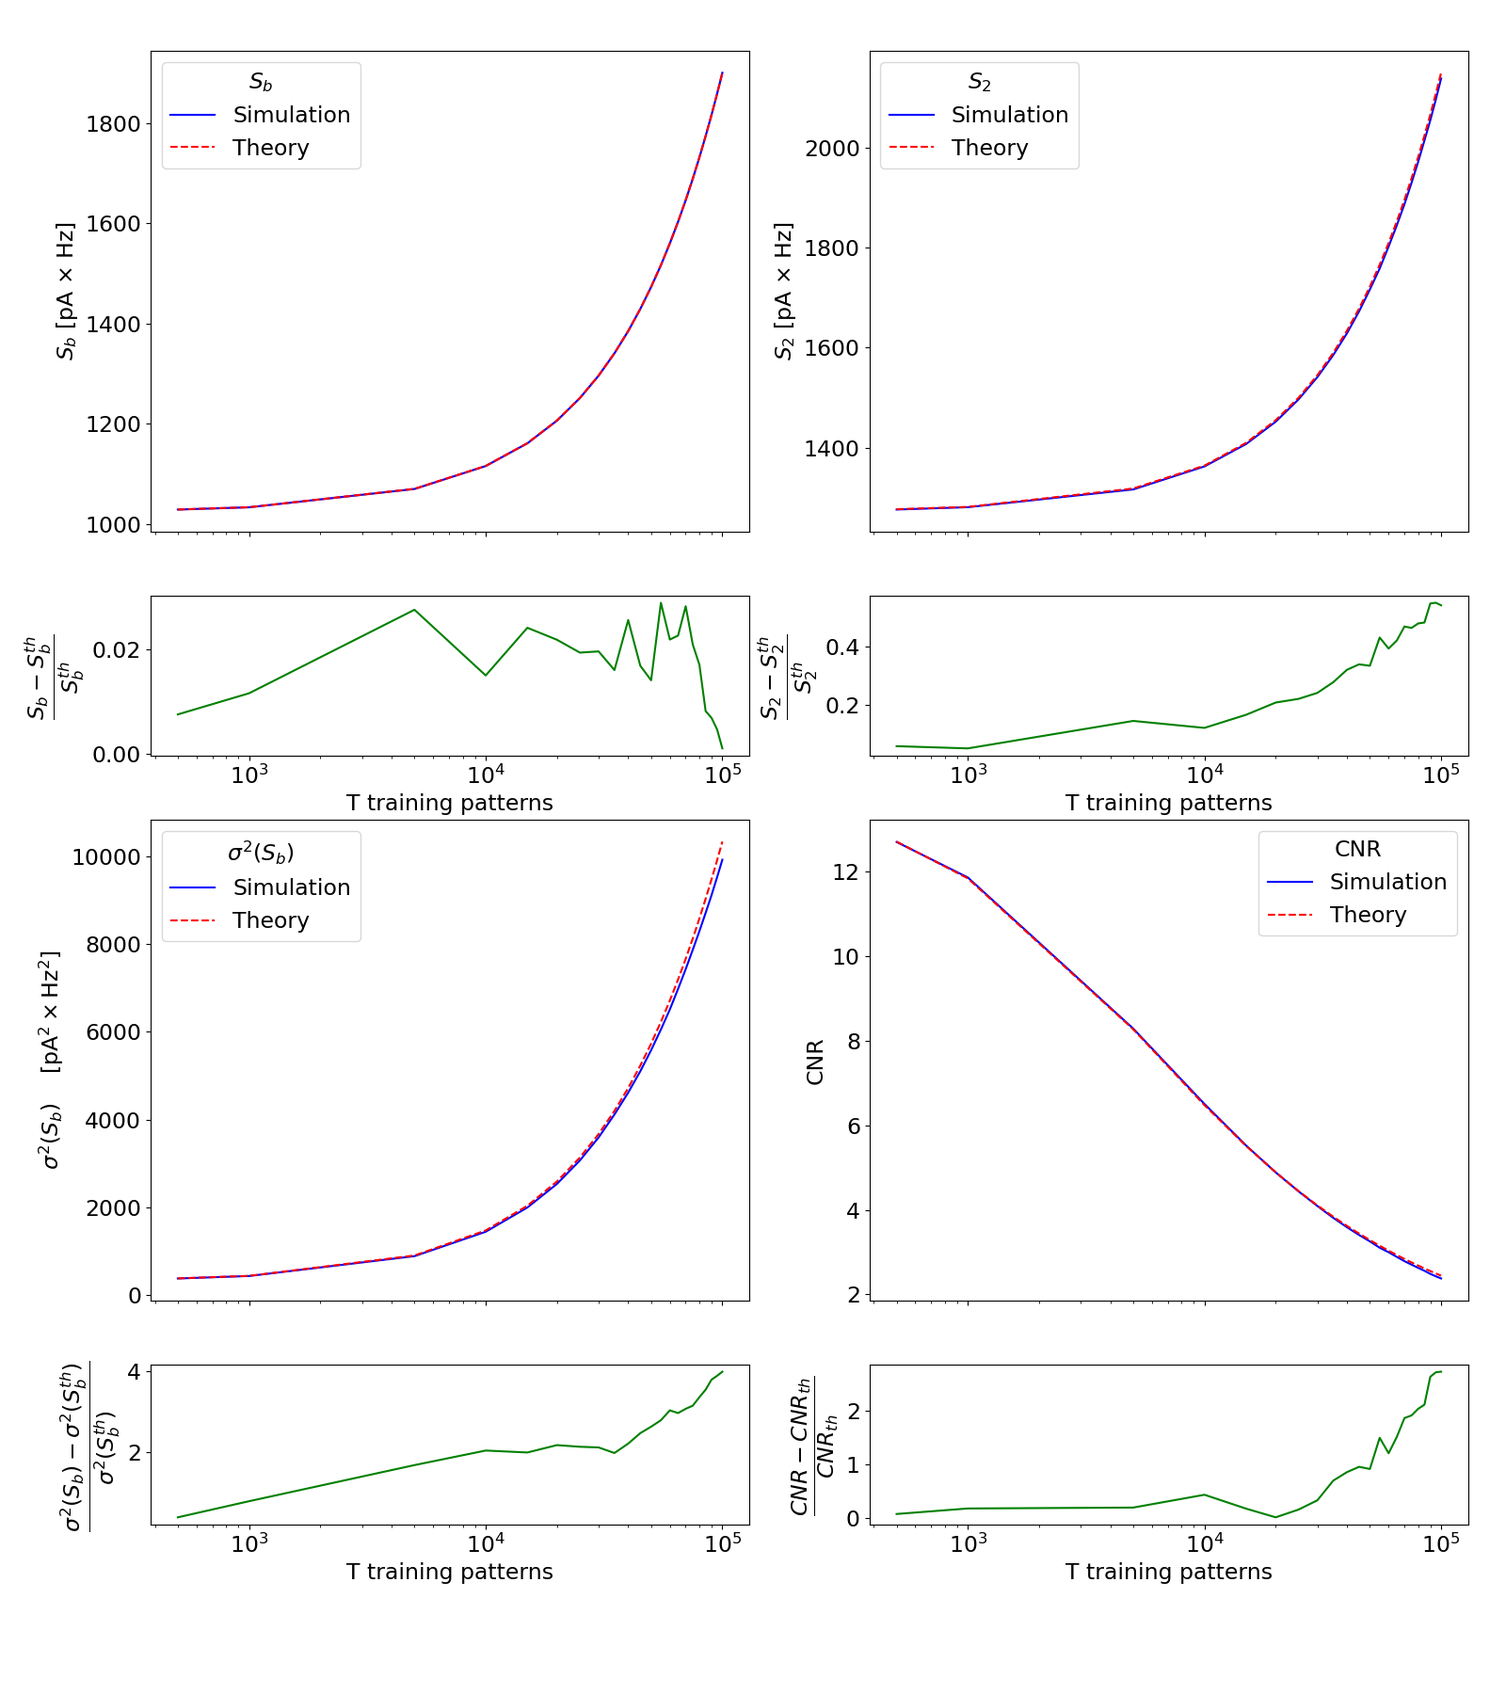
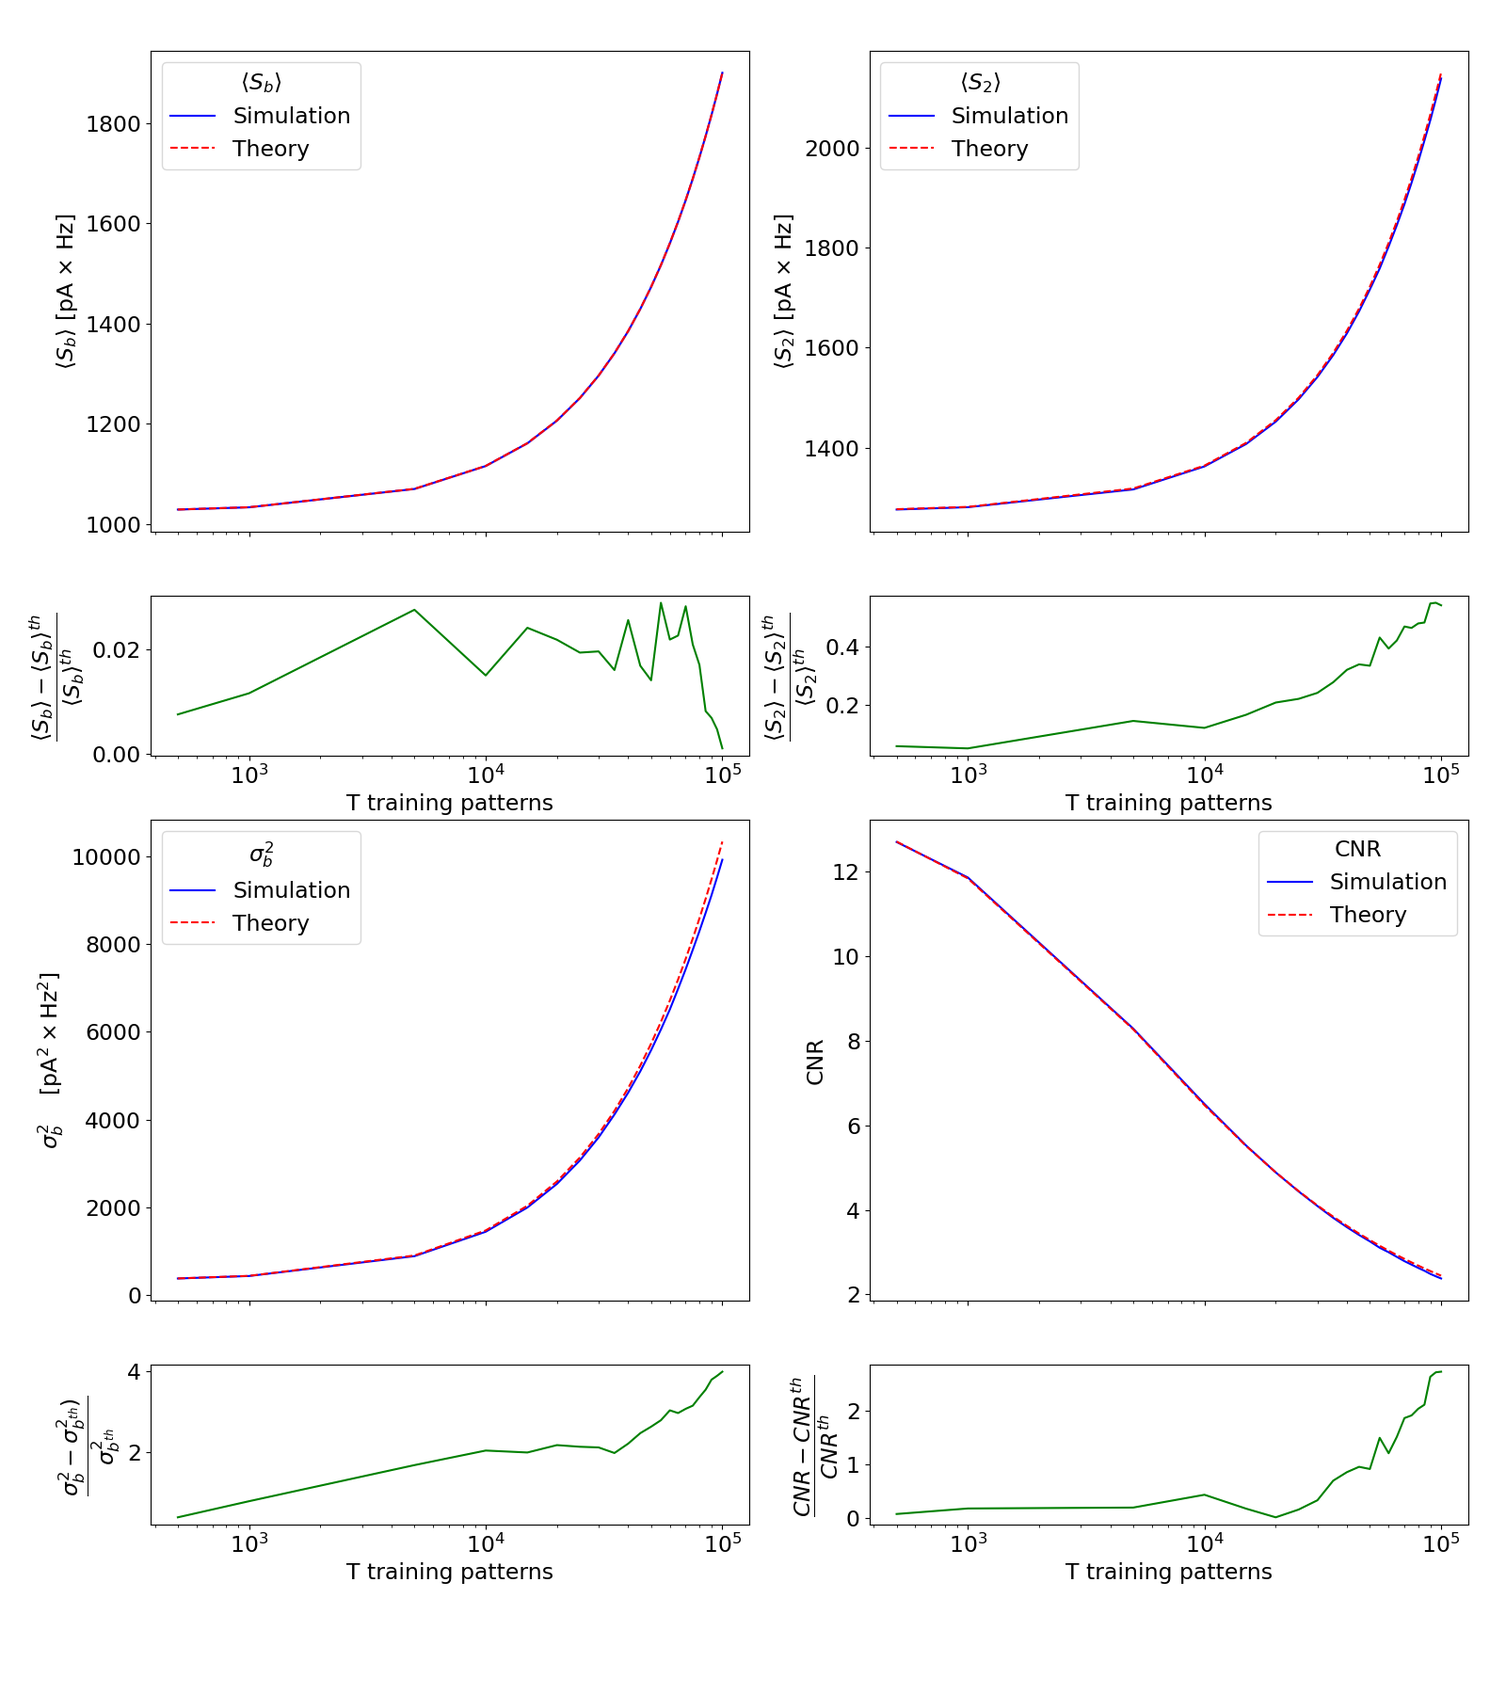
updated plot

diff --git a/plot_residui.py b/plot_residui.py
@@ -337,16 +337,6 @@ def plot_data(discr, th_discr, ln, th_ln, ln_noise, th_ln_noise):
 
 
 
-
-
-
-
-
-
-
-
-
-    
     #################################### PLOT DISCRETE MODEL #################################################
 
     plt.figure(1)
@@ -355,20 +345,20 @@ def plot_data(discr, th_discr, ln, th_ln, ln_noise, th_ln_noise):
     ax1.plot(discr['T'], discr['Sb_av'], "-", color="blue", label="Simulation")
     ax1.plot(discr['T'], th_discr['Sb_th'], "--", color="red", label="Theory")
     #ax1.set_xlabel("T (training patterns)", fontsize=tick_fs)
-    ax1.legend(title=r"$S_b$", fontsize=legend_fs, title_fontsize=legend_fs, framealpha=0.75)
-    ax1.set_ylabel(r"$S_b$ [pA $\times$ Hz]", fontsize=tick_fs)
+    ax1.legend(title=r"$\langle S_b \rangle$", fontsize=legend_fs, title_fontsize=legend_fs, framealpha=0.75)
+    ax1.set_ylabel(r"$\langle S_b \rangle$ [pA $\times$ Hz]", fontsize=tick_fs)
     ax1.tick_params(labelsize=tick_fs)
     ax1.set_xscale('log')
     ax1.set_xticklabels([])
     #ax1.grid()
     
-    #ax1.legend(title=r"$S_b$", fontsize=legend_fs, title_fontsize=legend_fs, framealpha=0.75)
+    #ax1.legend(title=r"$\langle S_b \rangle$", fontsize=legend_fs, title_fontsize=legend_fs, framealpha=0.75)
 
     #ax9.set_title("Residue", fontsize=legend_fs)
     #ax9.fill_between(discr['T'], discr['Sb_av']-discr['Sb_std'], discr['Sb_av']+discr['Sb_std'], color="red", alpha=0.2)
     ax2.plot(discr['T'], abs(discr['Sb_av']-th_discr['Sb_th'])/th_discr['Sb_th']*100, "-", color="green", label="Simulation")
     #ax1.set_xlabel("T (training patterns)", fontsize=tick_fs)
-    ax2.set_ylabel(r"$\dfrac{S_b - S_{b}^{th}}{S_{b}^{th}}$ ", fontsize=tick_fs)
+    ax2.set_ylabel(r"$\dfrac{\langle S_b \rangle - \langle S_{b} \rangle ^{th}}{\langle S_{b} \rangle ^{th}}$ ", fontsize=tick_fs)
     ax2.set_xlabel('T training patterns', fontsize=tick_fs)
     ax2.tick_params(labelsize=tick_fs)
     ax2.set_xscale('log')
@@ -380,21 +370,21 @@ def plot_data(discr, th_discr, ln, th_ln, ln_noise, th_ln_noise):
     #ax3.fill_between(discr['T'], discr['varSb_av']-discr['varSb_std'], discr['varSb_av']+discr['varSb_std'], color="blue", alpha=0.2)
     ax3.plot(discr['T'], discr['varSb_av'], "-", color="blue", label="Simulation")
     ax3.plot(discr['T'], th_discr['varSb_th'], "--", color="red", label="Theory")
-    ax3.legend(title=r"$\sigma^2(S_b)$", fontsize=legend_fs, title_fontsize=legend_fs, framealpha=0.75)
+    ax3.legend(title=r"$\sigma^2_b$", fontsize=legend_fs, title_fontsize=legend_fs, framealpha=0.75)
     #ax3.set_xlabel("T (training patterns)", fontsize=tick_fs)
-    ax3.set_ylabel(r"$\sigma^2(S_b)$ $\quad [\mathrm{pA}^2 \times \mathrm{Hz}^2]$", fontsize=tick_fs)
+    ax3.set_ylabel(r"$\sigma^2_b$ $\quad [\mathrm{pA}^2 \times \mathrm{Hz}^2]$", fontsize=tick_fs)
     ax3.tick_params(labelsize=tick_fs)
     ax3.set_xscale('log')
     #ax3.grid()
     ax3.set_xticklabels([])
     #ax3.legend(fontsize=legend_fs, framealpha=0.75)
 
-    ax3.legend(title=r"$\sigma^2(S_b)$", fontsize=legend_fs, title_fontsize=legend_fs, framealpha=0.75)
+    ax3.legend(title=r"$\sigma^2_b$", fontsize=legend_fs, title_fontsize=legend_fs, framealpha=0.75)
 
 
     ax4.plot(discr['T'], abs(discr['varSb_av']-th_discr['varSb_th'])/th_discr['varSb_th']*100, "-", color="green", label="Simulation")
     #ax1.set_xlabel("T (training patterns)", fontsize=tick_fs)
-    ax4.set_ylabel(r"$\dfrac{\sigma^2(S_b) - \sigma^2(S_{b}^{th})}{\sigma^2(S_{b}^{th})}$ ", fontsize=tick_fs)
+    ax4.set_ylabel(r"$\dfrac{\sigma^2_b - \sigma^2_{b^{th}})}{\sigma^2_{b^{th}}}$ ", fontsize=tick_fs)
     ax4.set_xlabel('T training patterns', fontsize=tick_fs)
     ax4.tick_params(labelsize=tick_fs)
     ax4.set_xscale('log')
@@ -408,20 +398,20 @@ def plot_data(discr, th_discr, ln, th_ln, ln_noise, th_ln_noise):
     #ax5.fill_between(discr['T'], discr['S2_av']-discr['S2_std'], discr['S2_av']+discr['S2_std'], color="blue", alpha=0.2)
     ax5.plot(discr['T'], discr['S2_av'], "-", color="blue", label="Simulation")
     ax5.plot(discr['T'], th_discr['S2_th'], "--", color="red", label="Theory")
-    ax5.legend(title=r"$S_2$", fontsize=legend_fs, title_fontsize=legend_fs, framealpha=0.75)
+    ax5.legend(title=r"$\langle S_2 \rangle$", fontsize=legend_fs, title_fontsize=legend_fs, framealpha=0.75)
     #ax5.set_xlabel("T (training patterns)", fontsize=tick_fs)
-    ax5.set_ylabel(r"$S_2$ [pA $\times$ Hz]", fontsize=tick_fs)
+    ax5.set_ylabel(r"$\langle S_2 \rangle$ [pA $\times$ Hz]", fontsize=tick_fs)
     ax5.tick_params(labelsize=tick_fs)
     ax5.set_xscale('log')
     #ax5.grid()
     #ax5.legend(fontsize=legend_fs, framealpha=0.75)
-    #ax5.legend(title=r"$S_2$", fontsize=legend_fs, title_fontsize=legend_fs, framealpha=0.75)
+    #ax5.legend(title=r"$\langle S_2 \rangle$", fontsize=legend_fs, title_fontsize=legend_fs, framealpha=0.75)
     ax5.set_xticklabels([])
 
 
     ax6.plot(discr['T'], abs(discr['S2_av']-th_discr['S2_th'])/th_discr['S2_th']*100, "-", color="green", label="Simulation")
     #ax1.set_xlabel("T (training patterns)", fontsize=tick_fs)
-    ax6.set_ylabel(r"$\dfrac{S_2 - S_{2}^{th}}{S_{2}^{th}}$ ", fontsize=tick_fs)
+    ax6.set_ylabel(r"$\dfrac{\langle S_2 \rangle - \langle S_{2} \rangle ^{th}}{\langle S_{2} \rangle ^{th}}$ ", fontsize=tick_fs)
     ax6.set_xlabel('T training patterns', fontsize=tick_fs)
     ax6.tick_params(labelsize=tick_fs)
     ax6.set_xscale('log')
@@ -444,7 +434,7 @@ def plot_data(discr, th_discr, ln, th_ln, ln_noise, th_ln_noise):
 
     ax8.plot(discr['T'], abs(np.abs(discr['S2_av']-discr['Sb_av'])/np.sqrt(discr['varSb_av'])- np.abs(th_discr['S2_th']-th_discr['Sb_th'])/np.sqrt(th_discr['varSb_th']))/ (np.abs(th_discr['S2_th']-th_discr['Sb_th'])/np.sqrt(th_discr['varSb_th']))*100, "-", color="green", label="Simulation")
     #ax1.set_xlabel("T (training patterns)", fontsize=tick_fs)
-    ax8.set_ylabel(r"$\dfrac{CNR - CNR_{th}}{CNR_{th}}$ ", fontsize=tick_fs)
+    ax8.set_ylabel(r"$\dfrac{CNR - CNR^{th}}{CNR^{th}}$ ", fontsize=tick_fs)
     ax8.set_xlabel('T training patterns', fontsize=tick_fs)
     ax8.tick_params(labelsize=tick_fs)
     #ax8.set_xticklabels([])
@@ -477,12 +467,12 @@ def plot_data(discr, th_discr, ln, th_ln, ln_noise, th_ln_noise):
     ax9.plot(ln_noise['T'], ln_noise['Sb_av'], "-", color="red", label="Simulation -w/ noise")
     ax9.plot(ln_noise['T'], th_ln_noise['Sb_th'], "--", color="orange", label="Theory - w/ noise")
     #ax9.set_xlabel("T (training patterns)", fontsize=tick_fs)
-    ax9.set_ylabel(r"$S_b$ [pA $\times$ Hz]", fontsize=tick_fs)
+    ax9.set_ylabel(r"$\langle S_b \rangle$ [pA $\times$ Hz]", fontsize=tick_fs)
     ax9.tick_params(labelsize=tick_fs)
     ax9.set_xscale('log')
     ax9.set_xticklabels([])
     #ax9.grid()
-    ax9.legend(title=r"$S_b$", fontsize=legend_fs, title_fontsize=legend_fs, framealpha=0.75)
+    ax9.legend(title=r"$\langle S_b \rangle$", fontsize=legend_fs, title_fontsize=legend_fs, framealpha=0.75)
     #ax9.legend(fontsize=legend_fs, framealpha=0.75)
     
 
@@ -493,7 +483,7 @@ def plot_data(discr, th_discr, ln, th_ln, ln_noise, th_ln_noise):
     #ax9.fill_between(discr['T'], discr['Sb_av']-discr['Sb_std'], discr['Sb_av']+discr['Sb_std'], color="red", alpha=0.2)
     ax10.plot(discr['T'], abs(ln_noise['Sb_av']-th_ln['Sb_th'])/th_ln['Sb_th']*100, "-", color="blue", label="w/out noise")
     ax10.plot(discr['T'], abs(ln_noise['Sb_av']-th_ln_noise['Sb_th'])/th_ln_noise['Sb_th']*100, "--", color="red", label="w/ noise")
-    ax10.set_ylabel(r"$\dfrac{S_b - S_{b}^{th}}{S_{b}^{th}}\quad$[%] ", fontsize=tick_fs)
+    ax10.set_ylabel(r"$\dfrac{\langle S_b \rangle - \langle S_{b} \rangle ^{th}}{\langle S_{b} \rangle ^{th}}\quad$[%] ", fontsize=tick_fs)
     ax10.set_xlabel('T training patterns', fontsize=tick_fs)
     ax10.tick_params(labelsize=tick_fs)
     ax10.set_xscale('log')
@@ -516,7 +506,7 @@ def plot_data(discr, th_discr, ln, th_ln, ln_noise, th_ln_noise):
     ax11.plot(ln_noise['T'], ln_noise['varSb_av'], "-", color="red", label="Simulation - w/ noise")
     ax11.plot(ln_noise['T'], th_ln_noise['varSb_th'], "--", color="orange", label="Theory -w/ noise")
     ax11.set_ylabel(r"$\sigma^2_b$ $\quad [\mathrm{pA}^2 \times \mathrm{Hz}^2]$", fontsize=tick_fs)
-    #ax11.set_ylabel(r"$\sigma^2(S_b)$ $\quad [\mathrm{pA}^2 \times \mathrm{Hz}^2]", fontsize=tick_fs)
+    #ax11.set_ylabel(r"$\sigma^2_b$ $\quad [\mathrm{pA}^2 \times \mathrm{Hz}^2]", fontsize=tick_fs)
     ax11.tick_params(labelsize=tick_fs)
     ax11.set_xscale('log')
     ax11.set_xticklabels([])
@@ -529,7 +519,7 @@ def plot_data(discr, th_discr, ln, th_ln, ln_noise, th_ln_noise):
     ax12.plot(discr['T'], abs(ln['varSb_av']-th_ln['varSb_th'])/th_ln['varSb_th']*100, "-", color="blue", label="w/out noise")
     ax12.plot(discr['T'], abs(ln_noise['varSb_av']-th_ln_noise['varSb_th'])/th_ln_noise['varSb_th']*100, "--", color="red", label="w/ noise")
     #ax1.set_xlabel("T (training patterns)", fontsize=tick_fs)
-    #ax12.set_ylabel(r"$\sigma^2(S_b)$ $\quad [\mathrm{pA}^2 \times \mathrm{Hz}^2]$", fontsize=tick_fs)
+    #ax12.set_ylabel(r"$\sigma^2_b$ $\quad [\mathrm{pA}^2 \times \mathrm{Hz}^2]$", fontsize=tick_fs)
     ax12.set_ylabel(r"$\dfrac{\sigma^2_b - \sigma^2_{b^{th}}}{\sigma^2_{b^{th}}}\quad$[%]", fontsize=tick_fs)
     ax12.set_xlabel('T training patterns', fontsize=tick_fs)
     ax12.tick_params(labelsize=tick_fs)
@@ -550,19 +540,19 @@ def plot_data(discr, th_discr, ln, th_ln, ln_noise, th_ln_noise):
     ax13.plot(ln_noise['T'], th_ln_noise['S2_th'], "--", color="orange", label="Theory - w/ noise")
 
     #ax6.set_xlabel("T (training patterns)", fontsize=tick_fs)
-    ax13.set_ylabel(r"$S_2$ [pA $\times$ Hz]", fontsize=tick_fs)
+    ax13.set_ylabel(r"$\langle S_2 \rangle$ [pA $\times$ Hz]", fontsize=tick_fs)
     ax13.tick_params(labelsize=tick_fs)
     ax13.set_xscale('log')
     ax13.set_xticklabels([])
     #ax13.grid()
-    ax13.legend(title=r" $S_2$", fontsize=legend_fs, title_fontsize=legend_fs, framealpha=0.75)
+    ax13.legend(title=r" $\langle S_2 \rangle$", fontsize=legend_fs, title_fontsize=legend_fs, framealpha=0.75)
 
    # plt.subplots_adjust(hspace=0.1)
     
     ax14.plot(discr['T'], abs(ln['S2_av']-th_ln['S2_th'])/th_ln['S2_th']*100, "-", color="blue", label="w/out noise")
     ax14.plot(discr['T'], abs(ln_noise['S2_av']-th_ln_noise['S2_th'])/th_ln_noise['S2_th']*100, "--", color="red", label="w/ noise")
     #ax1.set_xlabel("T (training patterns)", fontsize=tick_fs)
-    ax14.set_ylabel(r"$\dfrac{S_{2} - S_{2}^{th}}{S_{2}^{th}}\quad$[%]", fontsize=tick_fs)
+    ax14.set_ylabel(r"$\dfrac{\langle S_{2} \rangle - \langle S_{2}\rangle ^{th}}{\langle S_{2}\rangle ^{th}}\quad$[%]", fontsize=tick_fs)
     ax14.set_xlabel('T training patterns', fontsize=tick_fs)
     ax14.tick_params(labelsize=tick_fs)
     ax14.set_xscale('log')
@@ -599,7 +589,7 @@ def plot_data(discr, th_discr, ln, th_ln, ln_noise, th_ln_noise):
     ax16.plot(discr['T'], abs(np.abs(ln_noise['S2_av']-ln_noise['Sb_av'])/np.sqrt(ln_noise['varSb_av'])-np.abs(th_ln_noise['S2_th']-th_ln_noise['Sb_th'])/np.sqrt(th_ln_noise['varSb_th']))/(np.abs(th_ln_noise['S2_th']-th_ln_noise['Sb_th'])/np.sqrt(th_ln_noise['varSb_th']))*100, "--", color="red", label="w/ noise")
     
     #ax1.set_xlabel("T (training patterns)", fontsize=tick_fs)
-    ax16.set_ylabel(r"$\dfrac{CNR - CNR_{th}}{CNR_{th}}\quad$[%] ", fontsize=tick_fs)
+    ax16.set_ylabel(r"$\dfrac{CNR - CNR^{th}}{CNR^{th}}\quad$[%] ", fontsize=tick_fs)
     ax16.set_xlabel('T training patterns', fontsize=tick_fs)
     ax16.tick_params(labelsize=tick_fs)
     ax16.set_xscale('log')

diff --git a/plot.py b/plot.py
@@ -280,11 +280,11 @@ def plot_data(discr, th_discr, ln, th_ln, ln_noise, th_ln_noise):
     ax1.plot(discr['T'], discr['Sb_av'], "-", color="blue", label="Simulation")
     ax1.plot(discr['T'], th_discr['Sb_th'], "--", color="red", label="Theory")
     #ax1.set_xlabel("T training patterns", fontsize=tick_fs)
-    ax1.set_ylabel(r"$S_b$ [pA $\times$ Hz]", fontsize=tick_fs)
+    ax1.set_ylabel(r"$\langle S_b \rangle$ [pA $\times$ Hz]", fontsize=tick_fs)
     ax1.tick_params(labelsize=tick_fs)
     ax1.set_xscale('log')
     ax1.grid()
-    #ax1.legend(title=r"$S_b$", fontsize=legend_fs, title_fontsize=legend_fs, framealpha=1.0)
+    #ax1.legend(title=r"$\langle S_b \rangle$", fontsize=legend_fs, title_fontsize=legend_fs, framealpha=1.0)
 
     ax2.set_title("Continuous rate model", fontsize=legend_fs)
     #ax2.fill_between(ln['T'], ln['Sb_av']-ln['Sb_std'], ln['Sb_av']+ln['Sb_std'], color="blue", alpha=0.2)
@@ -296,11 +296,11 @@ def plot_data(discr, th_discr, ln, th_ln, ln_noise, th_ln_noise):
     ax2.plot(ln_noise['T'], th_ln_noise['Sb_th'], "--", color="orange", label="Theory - noise")
 
     #ax2.set_xlabel("T training patterns", fontsize=tick_fs)
-    ax2.set_ylabel(r"$S_{b}$ [pA $\times$ Hz]", fontsize=tick_fs)
+    ax2.set_ylabel(r"$\langle S_b \rangle$ [pA $\times$ Hz]", fontsize=tick_fs)
     ax2.tick_params(labelsize=tick_fs)
     ax2.set_xscale('log')
     ax2.grid()
-    #ax2.legend(title=r"$S_b$", fontsize=legend_fs, title_fontsize=legend_fs, framealpha=1.0)
+    #ax2.legend(title=r"$\langle S_b \rangle$", fontsize=legend_fs, title_fontsize=legend_fs, framealpha=1.0)
     ax2.legend(fontsize=legend_fs, framealpha=1.0)
 
 
@@ -335,11 +335,11 @@ def plot_data(discr, th_discr, ln, th_ln, ln_noise, th_ln_noise):
     ax5.plot(discr['T'], discr['S2_av'], "-", color="blue", label="Simulation")
     ax5.plot(discr['T'], th_discr['S2_th'], "--", color="red", label="Theory")
     #ax5.set_xlabel("T training patterns", fontsize=tick_fs)
-    ax5.set_ylabel(r"$S_2$ [pA $\times$ Hz]", fontsize=tick_fs)
+    ax5.set_ylabel(r"$\langle S_2 \rangle$ [pA $\times$ Hz]", fontsize=tick_fs)
     ax5.tick_params(labelsize=tick_fs)
     ax5.set_xscale('log')
     ax5.grid()
-    #ax5.legend(title=r"$S_2$", fontsize=legend_fs, title_fontsize=legend_fs, framealpha=1.0)
+    #ax5.legend(title=r"$\langle S_2 \rangle$", fontsize=legend_fs, title_fontsize=legend_fs, framealpha=1.0)
 
 
     #ax6.fill_between(ln['T'], ln['S2_av']-ln['S2_std'], ln['S2_av']+ln['S2_std'], color="blue", alpha=0.2)
@@ -351,11 +351,11 @@ def plot_data(discr, th_discr, ln, th_ln, ln_noise, th_ln_noise):
     ax6.plot(ln_noise['T'], th_ln_noise['S2_th'], "--", color="orange", label="Theory - noise")
 
     #ax6.set_xlabel("T training patterns", fontsize=tick_fs)
-    ax6.set_ylabel(r"$S_2$ [pA $\times$ Hz]", fontsize=tick_fs)
+    ax6.set_ylabel(r"$\langle S_2 \rangle$ [pA $\times$ Hz]", fontsize=tick_fs)
     ax6.tick_params(labelsize=tick_fs)
     ax6.set_xscale('log')
     ax6.grid()
-    #ax6.legend(title=r" $S_2$", fontsize=legend_fs, title_fontsize=legend_fs, framealpha=1.0)
+    #ax6.legend(title=r" $\langle S_2 \rangle$", fontsize=legend_fs, title_fontsize=legend_fs, framealpha=1.0)
 
 
     ax7.plot(discr['T'], np.abs(discr['S2_av']-discr['Sb_av'])/np.sqrt(discr['varSb_av']), "-", color="blue", label="Simulation")
@@ -413,25 +413,25 @@ def plot_data_luca(discr, th_discr, ln, th_ln, ln_noise, th_ln_noise):
 
     ax1.plot(discr['T'], discr['Sb_av'], "-", color="blue", label="Simulation - discrete")
     ax1.plot(ln['T'], ln['Sb_av'], "-", color="red", label="Simulation - lognormal")
-    ax1.set_ylabel(r"$S_b$ [pA $\times$ Hz]", fontsize=tick_fs)
+    ax1.set_ylabel(r"$\langle S_b \rangle$ [pA $\times$ Hz]", fontsize=tick_fs)
     ax1.set_xlabel("T training patterns", fontsize=tick_fs)
     ax1.tick_params(labelsize=tick_fs)
     ax1.set_xscale('log')
-    ax1.legend(title=r"$S_b$", title_fontsize=legend_fs, fontsize=legend_fs, framealpha=1.0)
+    ax1.legend(title=r"$\langle S_b \rangle$", title_fontsize=legend_fs, fontsize=legend_fs, framealpha=1.0)
 
     ax2.plot(discr['T'], discr['S2_av'], "-", color="blue", label="Simulation - discrete")
     ax2.plot(ln['T'], ln['S2_av'], "-", color="red", label="Simulation - lognormal")
-    ax2.set_ylabel(r"$S_2$ [pA $\times$ Hz]", fontsize=tick_fs)
+    ax2.set_ylabel(r"$\langle S_2 \rangle$ [pA $\times$ Hz]", fontsize=tick_fs)
     ax2.set_xlabel("T training patterns", fontsize=tick_fs)
     ax2.tick_params(labelsize=tick_fs)
     ax2.set_xscale('log')
-    ax2.legend(title=r"$S_2$", title_fontsize=legend_fs, fontsize=legend_fs, framealpha=1.0)
+    ax2.legend(title=r"$\langle S_2 \rangle$", title_fontsize=legend_fs, fontsize=legend_fs, framealpha=1.0)
 
 
     ax3.plot(discr['T'], discr['varSb_av'], "-", color="blue", label="Simulation - discrete")
     ax3.plot(ln['T'], ln['varSb_av'], "-", color="red", label="Simulation - lognormal")
     ax3.set_xlabel("T training patterns", fontsize=tick_fs)
-    ax3.set_ylabel(r"$\sigma^2(S_b) \quad [\mathrm{pA}^2 \times \mathrm{Hz}^2]$", fontsize=tick_fs)
+    ax3.set_ylabel(r"$\sigma^2_b \quad [\mathrm{pA}^2 \times \mathrm{Hz}^2]$", fontsize=tick_fs)
     ax3.tick_params(labelsize=tick_fs)
     ax3.set_xscale('log')
     ax3.legend(title=r"$\sigma^2_b$", fontsize=legend_fs, title_fontsize=legend_fs, framealpha=1.0)
@@ -475,6 +475,6 @@ print("Sim")
 print(discr_rate)
 
 
-plot_data_luca(discr_rate, th_discr, ln_rate, th_ln, ln_rate_noise, th_ln_noise)
+plot_data(discr_rate, th_discr, ln_rate, th_ln, ln_rate_noise, th_ln_noise)
 
 plt.show()

diff --git a/plot_variable_rewiring.py b/plot_variable_rewiring.py
@@ -286,8 +286,8 @@ def plot_data(data, th_data):
     ax1.plot(data['t'][1:], data['Sb_av'][1:], "-", color="blue", label="With recombination")
     ax1.plot(data['t'][0], data['Sb_av'][0], "o", color="red", label="Without recombination")
     #ax1.plot(data['t'], th_data['Sb_th'], "--", color="red", label="Theory")
-    ax1.legend(title=r"$S_b$", fontsize=legend_fs, title_fontsize=legend_fs, framealpha=1.0)
-    ax1.set_ylabel(r"$S_b$ [pA $\times$ Hz]", fontsize=tick_fs)
+    ax1.legend(title=r"$\langle S_b \rangle$", fontsize=legend_fs, title_fontsize=legend_fs, framealpha=1.0)
+    ax1.set_ylabel(r"$\langle S_b \rangle$ [pA $\times$ Hz]", fontsize=tick_fs)
     ax1.set_xlabel(r"Recombination step t", fontsize=tick_fs)
     ax1.tick_params(labelsize=tick_fs)
     ax1.set_ylim(1069.4, 1070.5)
@@ -312,12 +312,12 @@ def plot_data(data, th_data):
     ax5.plot(data['t'][1:], data['S2_av'][1:], "-", color="blue", label="With recombination")
     ax5.plot(data['t'][0], data['S2_av'][0], "o", color="red", label="Without recombination")
     #ax5.plot(data['t'], th_data['S2_th'], "--", color="red", label="Theory")
-    ax5.legend(title=r"$S_2$", fontsize=legend_fs, title_fontsize=legend_fs, framealpha=1.0)
-    ax5.set_ylabel(r"$S_2$ [pA $\times$ Hz]", fontsize=tick_fs)
+    ax5.legend(title=r"$\langle S_2 \rangle$", fontsize=legend_fs, title_fontsize=legend_fs, framealpha=1.0)
+    ax5.set_ylabel(r"$\langle S_2 \rangle$ [pA $\times$ Hz]", fontsize=tick_fs)
     ax5.set_xlabel(r"Recombination step t", fontsize=tick_fs)
     ax5.tick_params(labelsize=tick_fs)
     ax5.grid()
-    ax5.legend(title=r"$S_2$", fontsize=legend_fs, title_fontsize=legend_fs, framealpha=1.0)
+    ax5.legend(title=r"$\langle S_2 \rangle$", fontsize=legend_fs, title_fontsize=legend_fs, framealpha=1.0)
     #ax5.set_xticklabels([])
 
     
